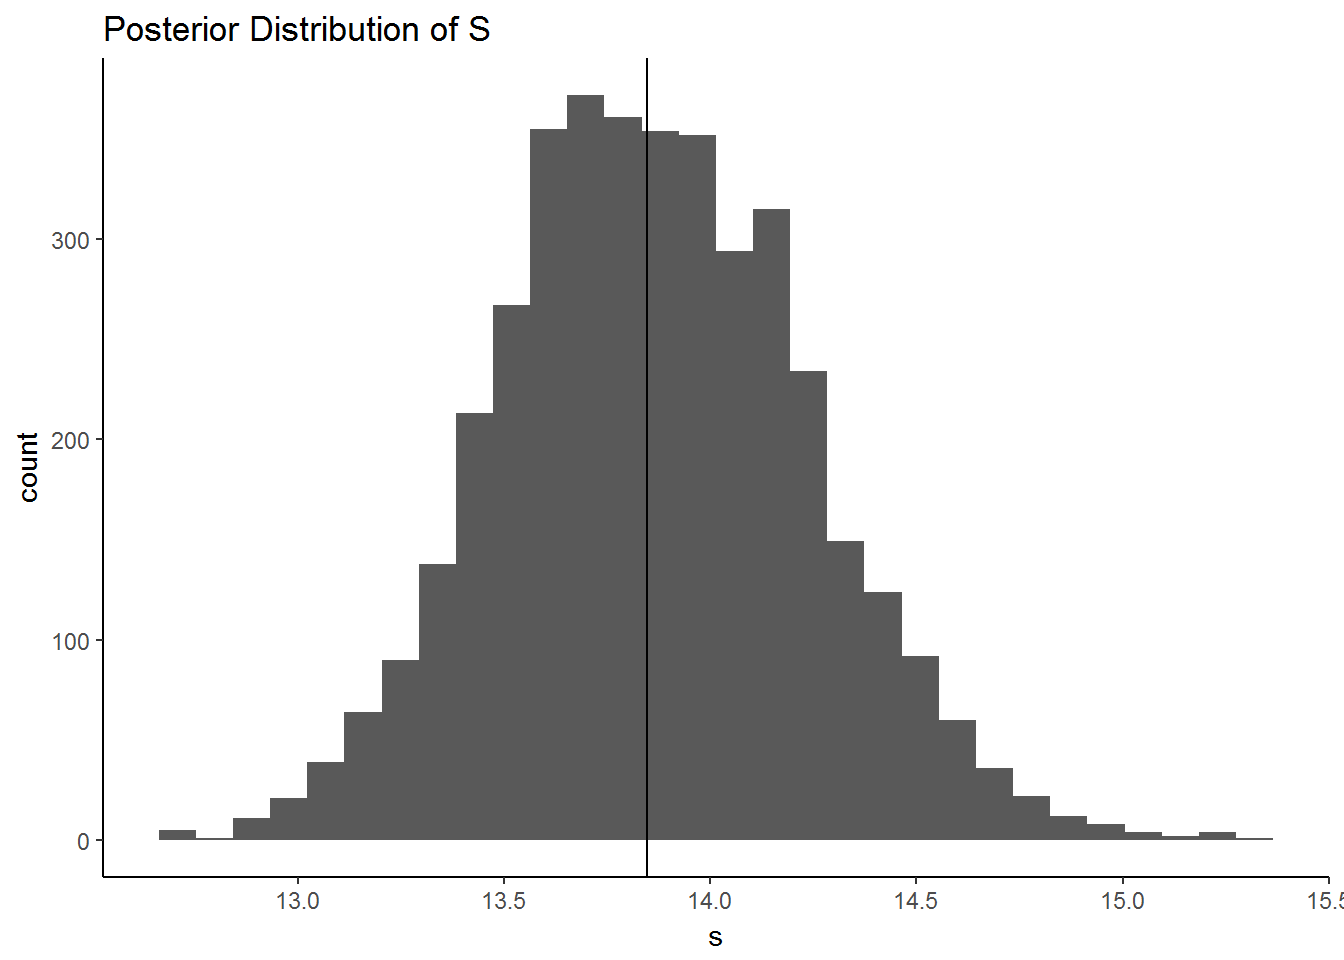
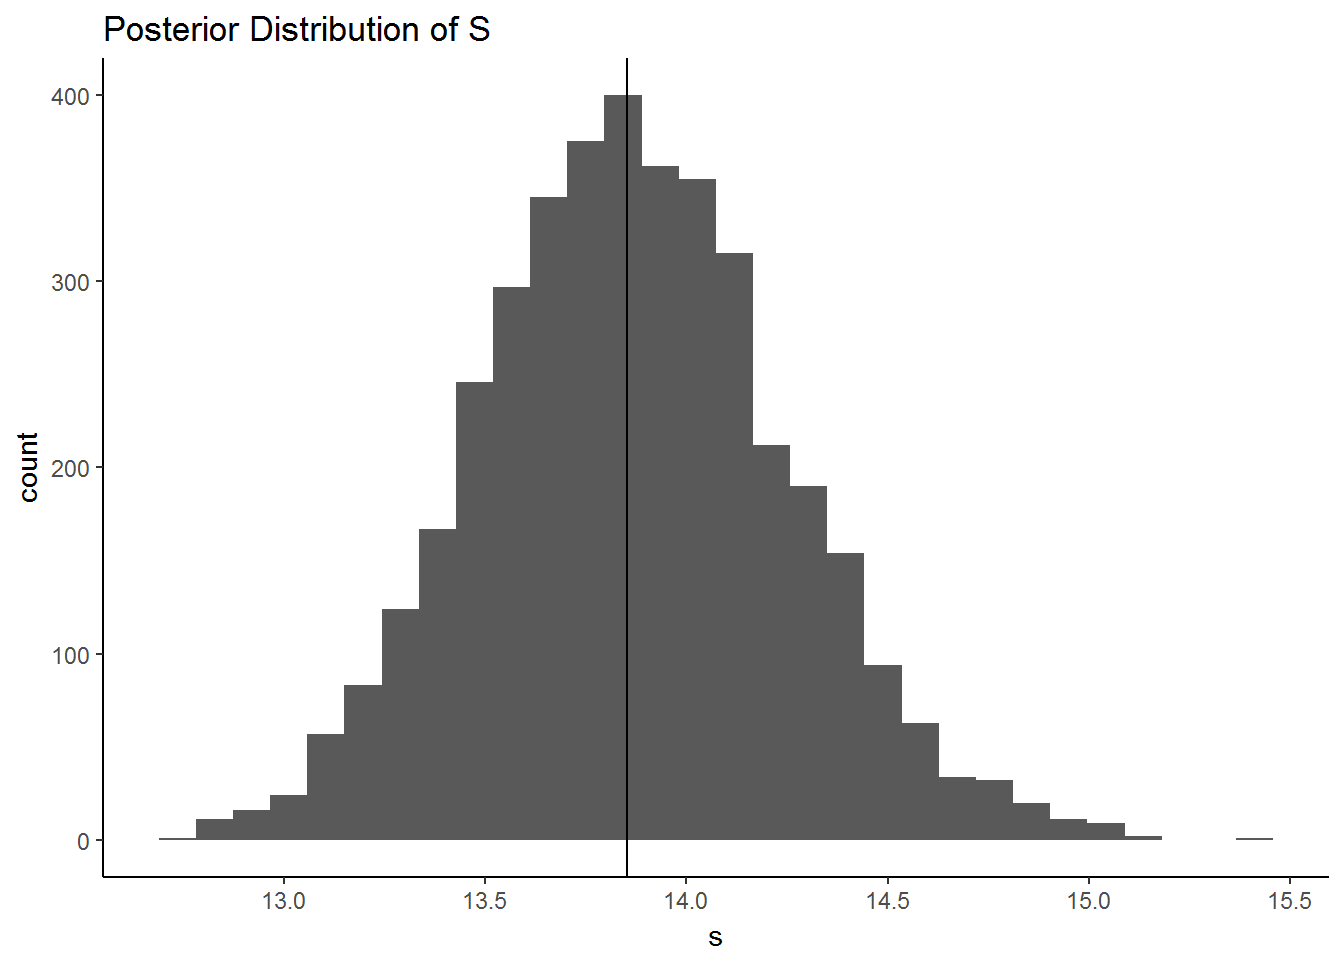
stan basics post

diff --git a/public/post/stan-basics/index.html b/public/post/stan-basics/index.html
@@ -98,7 +98,7 @@ qplot(s, geom = &quot;histogram&quot;,
 <pre class="r"><code>#Interval
 quantile(s, c(.025,.5,.975))</code></pre>
 <pre><code>##     2.5%      50%    97.5% 
-## 13.15238 13.84591 14.61275</code></pre>
+## 13.13765 13.85217 14.64112</code></pre>
 <p>Now we can fit the same model in Stan. Using Stan in R requires installing the package <a href="http://mc-stan.org/users/interfaces/rstan">RStan</a>. You can pass Stan code to the stan function in Rstan as a string, or you can write your stan code separately and save it as .stan and use the file argument in the stan function. I think it’s easier to do the latter. You can write and edit Stan code in Rstudio by simply opening up a new text file. Once the file is saved as .stan, the syntax highlighting should start.</p>
 <p>The stan function requires you to pass the data as a list and an argument for the location of your stan file.</p>
 <pre class="r"><code>library(rstan)
@@ -144,7 +144,7 @@ with(posterior,
 </div>
 <div id="poisson-model-with-unknown-rate" class="section level2">
 <h2>Poisson model with unknown rate</h2>
-<p>The second example from Albert’s book involves estimating the mortality rate of heart transplants from a hospital. Since we’re dealing with counts, a natural starting point is with a poisson likelihood. The gamma distribution is a conjugate prior for the poisson likelihood. The prior Albert uses is <span class="math inline">\(gamma(alpha = 16, beta = 15174)\)</span>, and I’m going to use it as well. The set up for this problem involves two measurements, the number of heart transplant failures, <strong>fails</strong>, and the total number of heart transplants, <strong>exposures</strong>. The code below draws samples from the posterior, <span class="math inline">\(p(\lambda | data)\)</span>, which is known to be <span class="math inline">\(gamma(alpha = 16 + yobs, beta = 15174 + exposures)\)</span>.</p>
+<p>The second example from Albert’s book involves estimating the mortality rate of heart transplants from a hospital. Since we’re dealing with counts, a natural starting point is with a poisson likelihood. The gamma distribution is a conjugate prior for the poisson likelihood. The prior Albert uses is <span class="math inline">\(gamma(alpha = 16, beta = 15174)\)</span>, and I’m going to use it as well. The set up for this problem involves two measurements, the number of heart transplant failures, <strong>yobs</strong>, and the total number of heart transplants, <strong>exposures</strong>. The code below draws samples from the posterior, <span class="math inline">\(p(\lambda | data)\)</span>, which is known to be <span class="math inline">\(gamma(alpha = 16 + yobs, beta = 15174 + exposures)\)</span>.</p>
 <pre class="r"><code>alpha &lt;- 16
 beta &lt;- 15174
 yobs &lt;- 1

diff --git a/content/post/2018-04-14-stan-basics.html b/content/post/2018-04-14-stan-basics.html
@@ -37,7 +37,7 @@ qplot(s, geom = &quot;histogram&quot;,
 <pre class="r"><code>#Interval
 quantile(s, c(.025,.5,.975))</code></pre>
 <pre><code>##     2.5%      50%    97.5% 
-## 13.15238 13.84591 14.61275</code></pre>
+## 13.13765 13.85217 14.64112</code></pre>
 <p>Now we can fit the same model in Stan. Using Stan in R requires installing the package <a href="http://mc-stan.org/users/interfaces/rstan">RStan</a>. You can pass Stan code to the stan function in Rstan as a string, or you can write your stan code separately and save it as .stan and use the file argument in the stan function. I think it’s easier to do the latter. You can write and edit Stan code in Rstudio by simply opening up a new text file. Once the file is saved as .stan, the syntax highlighting should start.</p>
 <p>The stan function requires you to pass the data as a list and an argument for the location of your stan file.</p>
 <pre class="r"><code>library(rstan)
@@ -83,7 +83,7 @@ with(posterior,
 </div>
 <div id="poisson-model-with-unknown-rate" class="section level2">
 <h2>Poisson model with unknown rate</h2>
-<p>The second example from Albert’s book involves estimating the mortality rate of heart transplants from a hospital. Since we’re dealing with counts, a natural starting point is with a poisson likelihood. The gamma distribution is a conjugate prior for the poisson likelihood. The prior Albert uses is <span class="math inline">\(gamma(alpha = 16, beta = 15174)\)</span>, and I’m going to use it as well. The set up for this problem involves two measurements, the number of heart transplant failures, <strong>fails</strong>, and the total number of heart transplants, <strong>exposures</strong>. The code below draws samples from the posterior, <span class="math inline">\(p(\lambda | data)\)</span>, which is known to be <span class="math inline">\(gamma(alpha = 16 + yobs, beta = 15174 + exposures)\)</span>.</p>
+<p>The second example from Albert’s book involves estimating the mortality rate of heart transplants from a hospital. Since we’re dealing with counts, a natural starting point is with a poisson likelihood. The gamma distribution is a conjugate prior for the poisson likelihood. The prior Albert uses is <span class="math inline">\(gamma(alpha = 16, beta = 15174)\)</span>, and I’m going to use it as well. The set up for this problem involves two measurements, the number of heart transplant failures, <strong>yobs</strong>, and the total number of heart transplants, <strong>exposures</strong>. The code below draws samples from the posterior, <span class="math inline">\(p(\lambda | data)\)</span>, which is known to be <span class="math inline">\(gamma(alpha = 16 + yobs, beta = 15174 + exposures)\)</span>.</p>
 <pre class="r"><code>alpha &lt;- 16
 beta &lt;- 15174
 yobs &lt;- 1
